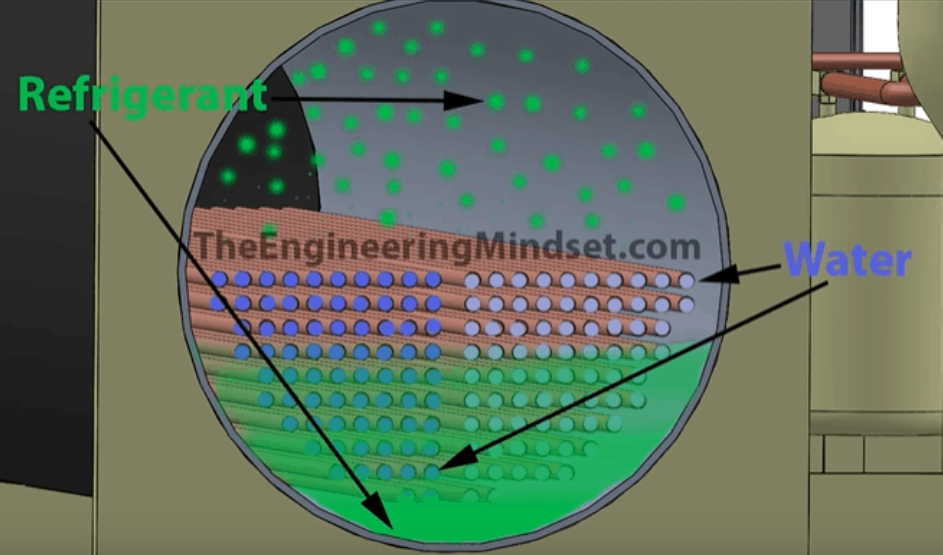
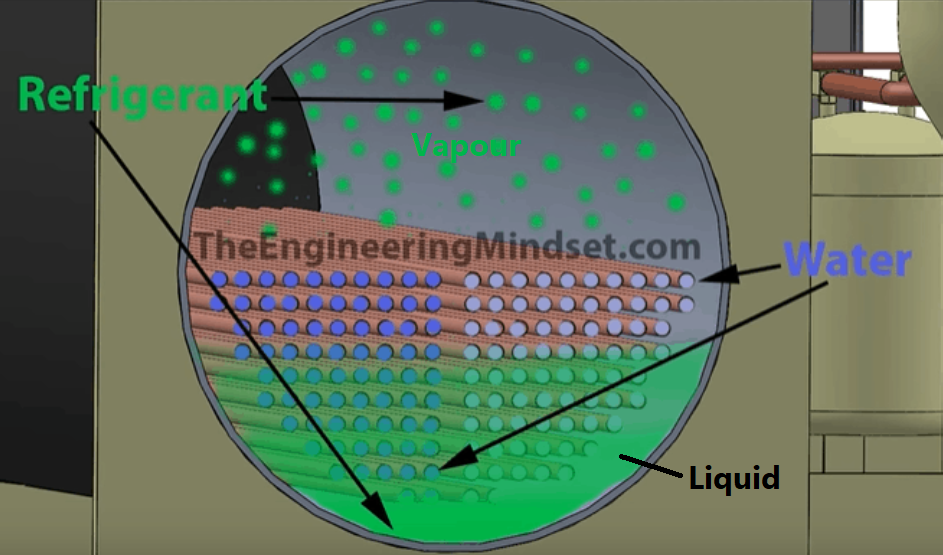
done

Changed region(s): [[0.6766, 0.827, 0.8303, 0.8883], [0.4305, 0.245, 0.5536, 0.3063], [0.6458, 0.7964, 0.6766, 0.827]]

diff --git a/public/Docs/Automation/Industrial_Equipments/Documentation/topics/9 - Chiller Condensers.html b/public/Docs/Automation/Industrial_Equipments/Documentation/topics/9 - Chiller Condensers.html
@@ -1,0 +1,194 @@
+<p class="main-title">Chiller - Condensers</p>
+<!-- #region start -->
+
+<!-- ######################################################### -->
+<!-- ######################################################### -->
+<p class="sub-title">1. What is Condenser ?</p>
+<!-- ######################################################### -->
+<!-- ######################################################### -->
+<!-- #region start -->
+
+<p class="text">
+ Te condenser is located between the the compressor and the expansion valve as you see below. Here our high pressure and high temperature refrigerant vapour enters the
+ condenser and liquid refrigerant exits the condenser.
+</p>
+
+<img id="image" path="/img/image106.PNG" alt="image" />
+
+<p class="text">
+ Our condenser is usually not insulated all unwanted heat that comes from the condenser is gonna be rejected out to atmosphere or room not a big deal because the room is
+ being cooled by outside ambient air, then it doesn't matter. If u
+</p>
+
+<div class="text-box info">
+ <p>if the plant room is being cooled by refrigeration as well, then it makes perfect sense to insulate this and reject all the heat out into the building</p>
+</div>
+
+<img id="image" path="/img/image049.gif" alt="image" />
+
+<p class="text">
+ The unwanted heat of the building enters the evaporator and the refrigerant takes this to the compressor to pack it tightly together. That heat is then transported
+ through the compressor and over into the condenser.
+</p>
+
+<p class="text">The condenser then picks up that heat, and transfers it from the refrigerant and into the water which circulates around the condenser water loop.</p>
+
+<div class="text-box info">
+ <p>The refrigerant and water never meet or mix, they are always kept separated by a metal wall, only heat transfers between them.</p>
+</div>
+
+<p class="text">
+ Once the condenser water has cooled down, it returns then at a much cooler temperature ready to pick up more heat from the condenser again. The condenser water is
+ flowing out at about <number>32</number> degrees Celsius (<number>90</number> degrees Fahrenheit), and it’s returning at <number>27</number> degrees Celsius (<number
+  >81</number
+ >
+ degrees Fahrenheit).
+</p>
+
+<!-- #endregion -->
+
+<!-- ######################################################### -->
+<!-- ######################################################### -->
+<p class="sub-title">2. How does condenser works ?</p>
+<!-- ######################################################### -->
+<!-- ######################################################### -->
+<!-- #region start -->
+
+<p class="text">
+ The condenser outer shell, inside the shell we got some tubes which run along from one end to another. Our tubes contains the condenser water, as you see below our
+ condenser has two holes one outlet and inlet and water goes thru inlet and turn as U path and comes out thru the outlet.
+</p>
+
+<img id="image" path="/img/image107.PNG" alt="image" />
+
+<div class="text-box info">
+ <p>
+  Depending on the design the condenser water will either flow straight through all the tubes or it will flow in through half of them and then do a U turn and come back
+  out the same end. This is to increase efficiency and reduce the size.
+ </p>
+</div>
+
+<p class="text">
+ The tubes contain the condenser water. On the outside of the tubes is the refrigerant which is coming from the compressor. The two fluids are always separated by the
+ tube wall. They're completely isolated from each other.
+</p>
+
+<p class="text">
+ The condenser water is coming from the cooling tower, into the condenser via the inlet on the “water box” (The end cover). The water box section is removable is taken
+ off for cleaning of the tubes.
+</p>
+
+<img id="image" path="/img/image108.gif" alt="image" />
+
+<p class="text">
+ The condenser water flows through the tubes to the very end, hits the other water box at the end, does a 180 degree turn, comes back through the tubes and back out the
+ first water box. There's a baffle (metal separation) between the inlet and outlet on the first water box.
+</p>
+
+<p class="text">
+ Hot compressed refrigerant is going to come out of the compressor and start to fill this void within the condenser. The hot refrigerant vapour will fill the space
+ between the tubes containing the condenser water.
+</p>
+
+<img id="image" path="/img/image109.gif" alt="image" />
+
+<p class="text">
+ As the hot refrigerant comes into contact with the cooler surface of the condenser tubes, the refrigerant is going to condense into a liquid on the tubes surface. As it
+ does so the heat will transfer through the tube wall and into the refrigerant.
+</p>
+
+<img id="image" path="/img/image113.PNG" alt="image" />
+
+<p class="text">
+ The condenser water runs through the condenser, hits the end water box, does a 180 degree turn and comes back through, still picking up the last heat it can to the
+ maximum efficiency.
+</p>
+
+<p class="text">
+ Meanwhile the liquid refrigerant collects as a liquid at the bottom of the condenser. It will leave here through the bottom and flows into the expansion valve. The
+ heated condenser water will now head off to the cooling tower.
+</p>
+
+<div class="text-box info">
+ <p>
+  When the refrigerant exits the compressor and heads down into the condenser, it needs to be at a much higher temperature than the return (incoming) condenser water
+  that’s coming back from the cooling tower. The condenser water enters at around <number>27°C</number> (<number>81°F</number>) so the refrigerant needs to be a greater
+  temperature than this.
+ </p>
+</div>
+
+<div class="text-box warning">
+ <p>
+  If the refrigerant is the same temperature as this return condenser water then the chiller will not be able to reject any heat that’s been picked up in the building,
+  and so the building will be unable to cool down.
+ </p>
+</div>
+
+<p class="text">
+ Our cooling tower rejects heat from the condenser water, if water temperature return is the same E.g. if it’s going up at <number>32</number> degrees Celsius, and the
+ cooling tower is unable to reject this heat, (perhaps there is recirculation happening or the water is just dumping instead of spraying, or there’s a problem with the
+ baffles) and the water is just returning straight back down into the condenser, then you will not be able to reject any heat from the compressor and it will eventually
+ cause the chiller to trip on high pressure.
+</p>
+
+<img id="image" path="/img/image110.PNG" alt="image" />
+
+<p class="text">
+ You can see two thermal images of a chiller. The left image in the discharge line coming out of the compressor, the centrifugal compressor is on the top and the hot
+ compressed refrigerant is exiting via the discharge line, into the condenser. You can see that it’s going to be around <number>55</number> degrees celsius.
+</p>
+
+<p class="text">
+ The right thermal image, shows the inlet and outlet of the condenser of the chiller. You can see that the water is coming back from the cooling tower at around 17.6
+ degrees Celsius and it’s exiting at <number>25.9</number> degrees Celsius to head back up to the cooling tower.
+</p>
+
+<div class="text-box info">
+ <p>
+  You should have noticed that these figures are a slightly different temperature range than in the schematic which we were looking at earlier. That’s just because the
+  schematic is showing design figures at a high loading, whereas this is actual figures from a lower loading. There will always be a difference between design and actual.
+  That depends on the cooling load on the chiller and the outside ambient temperature.
+ </p>
+</div>
+
+<p class="text">
+ Our condenser water in the cooling tower is sprayed through the cooling tower to get rid of that heat to reject and dissipate it into the atmosphere this is an open
+ system whereas this loop here is a closed system this loop here is an open system so the water is sprayed and air and dirt can get into this system. And what comes into
+ this system gets sent down into the condenser.
+</p>
+
+<p class="text">
+ There are two types of cooling towers used, open circuit and closed circuits. Open circuits are the most common, they spray the hot condenser water into the ambient air
+ which effectivly cools the water down using the latent heat of evaporation.
+</p>
+
+<p class="text">
+ We can have an issue with the condenser water pipework and the condenser heat exchanger known as <underline yellow>fouling occurring</underline>. Where the Dirt and other particles will collect on
+ the surfaces of the pipes and heat exchanger and will form a layer of insulation.
+</p>
+
+<p class="text">
+ This build-up is basically small deposits of salt, scale, dirt, mineral build-up and also bacterial growth. As I said it insulates the pipe which reduces the chillers
+ efficiency and cooling capacity. This can be treated with a rigorous chemical dosing regime.
+</p>
+
+<img id="image" path="/img/image111.PNG" alt="image" />
+
+<p class="text">
+ Unfortunately this by itself will not be enough to stop it, it will just be enough to reduce it or mitigate it. Alternatively, you can get some specialists to come in
+ and clean it off with jet brush.
+</p>
+
+<img id="image" path="/img/image112.PNG" alt="image" />
+
+<div class="text-box info">
+ <p>
+  On the chiller discharge and liquid line we’re going to find two large valves. These can be shut (during maintenance) and used to isolate all the refrigerant within the
+  condenser. So if you need to take this apart the refrigerant can all be pumped and moved into the condenser and these can be sealed to keep all that refrigerant inside.
+  DO NOT TOUCH THESE UNLESS AUTHORISED
+ </p>
+</div>
+
+<!-- #endregion -->
+
+<!-- #endregion -->

diff --git a/public/Docs/Automation/Industrial_Equipments/Documentation/Documentation.html b/public/Docs/Automation/Industrial_Equipments/Documentation/Documentation.html
@@ -35,14 +35,17 @@
    </section>
    <section>
     <li>
-      <a class="topic-title-link" path="/topics/5 - How Cooling Towers Work.html">- How Cooling Towers Work </a>
-     </li>
+     <a class="topic-title-link" path="/topics/5 - How Cooling Towers Work.html">- How Cooling Towers Work </a>
+    </li>
     <li>
-      <a class="topic-title-link" path="/topics/7 - Centrifugal Compressors Chiller.html">- Centrifugal Compressors Chiller</a>
-     </li>
+     <a class="topic-title-link" path="/topics/7 - Centrifugal Compressors Chiller.html">- Centrifugal Compressors Chiller</a>
+    </li>
     <li>
-      <a class="topic-title-link" path="/topics/8 - Chiller Evaporators.html">- Chiller - Evaporators</a>
-     </li>
+     <a class="topic-title-link" path="/topics/8 - Chiller Evaporators.html">- Chiller - Evaporators</a>
+    </li>
+    <li>
+     <a class="topic-title-link" path="/topics/9 - Chiller Condensers.html">- Chiller - Condensers</a>
+    </li>
    </section>
   </div>
 

diff --git a/public/Docs/Automation/Industrial_Equipments/Documentation/topics/8 - Chiller Evaporators.html b/public/Docs/Automation/Industrial_Equipments/Documentation/topics/8 - Chiller Evaporators.html
@@ -81,8 +81,6 @@
  chilled water from pipes is around <number>12°</number> C which will cause the refrigerant to boil off into a vapour.
 </p>
 
-<img id="image" path="/img/image094.PNG" alt="image" />
-
 <p class="text">
  As the refrigerant boils off, it carry’s away the unwanted heat from the incoming chilled water from pipes/tubes. All the heated water thru the pipe/tube is given up to
  the refrigerant, so it just transfers that heat through the metal tube wall and into the refrigerant.
